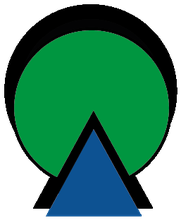
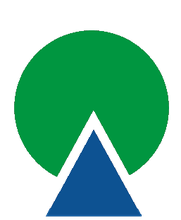
fix: testo/bordo neri di Arredo Uno e Polycykle invisibili su sfondo scuro
I loghi originali erano pensati per stampa su bianco (testo e bordo neri).
Ricolorati in bianco i pixel scuri mantenendo intatti i colori del brand.

Changed region(s): [[0.0, 0.0, 0.9945, 0.9545]]

diff --git a/service-worker.js b/service-worker.js
@@ -1,4 +1,4 @@
-const CACHE_NAME = 'spx-app-v13';
+const CACHE_NAME = 'spx-app-v14';
 
 const APP_SHELL = [
   './',

diff --git a/scripts/extract_sponsor_logos.py b/scripts/extract_sponsor_logos.py
@@ -58,13 +58,19 @@ def extract_from_dark_grid(src_path, anchors, dilate_iter=35):
         save_transparent(crop, os.path.join(OUT_DIR, f'{slug}.png'))
 
 
-def extract_from_white_bg(src_path, slug):
+def extract_from_white_bg(src_path, slug, dark_to_white=False, dark_thresh=120):
+    """dark_to_white: some logos were designed for print on white and use
+    black text/outlines that vanish against the dark ticker background --
+    recolor those to white. Uses max-channel (not mean) so it never touches
+    saturated brand colors (a vivid green/blue still has a high channel even
+    if it reads 'dark' on average)."""
     im = Image.open(src_path).convert('RGB')
-    arr = np.array(im)
-    mask = arr.mean(axis=2) < 245  # content = not white
-    rgba = Image.fromarray(arr).convert('RGBA')
-    rgba_arr = np.array(rgba)
-    rgba_arr[:, :, 3] = np.where(mask, 255, 0)
+    arr = np.array(im).astype(int)
+    mask = arr.mean(axis=2) < 245  # content = not white (this is the alpha mask)
+    if dark_to_white:
+        near_black = arr.max(axis=2) < dark_thresh
+        arr[near_black] = [255, 255, 255]
+    rgba_arr = np.dstack([arr, np.where(mask, 255, 0)]).astype('uint8')
     crop = Image.fromarray(rgba_arr)
     save_transparent(crop, os.path.join(OUT_DIR, f'{slug}.png'))
 
@@ -82,6 +88,6 @@ if __name__ == '__main__':
             'fassa-village': (705, 1503),
         },
     )
-    extract_from_white_bg(os.path.join(INPUT_DIR, 'ARREDO UNO.png'), 'arredo-uno')
-    extract_from_white_bg(os.path.join(INPUT_DIR, 'Polycycle.png'), 'polycykle')
+    extract_from_white_bg(os.path.join(INPUT_DIR, 'ARREDO UNO.png'), 'arredo-uno', dark_to_white=True)
+    extract_from_white_bg(os.path.join(INPUT_DIR, 'Polycycle.png'), 'polycykle', dark_to_white=True)
     extract_from_white_bg(os.path.join(INPUT_DIR, 'Yakata Sport.png'), 'yakata-sport')
